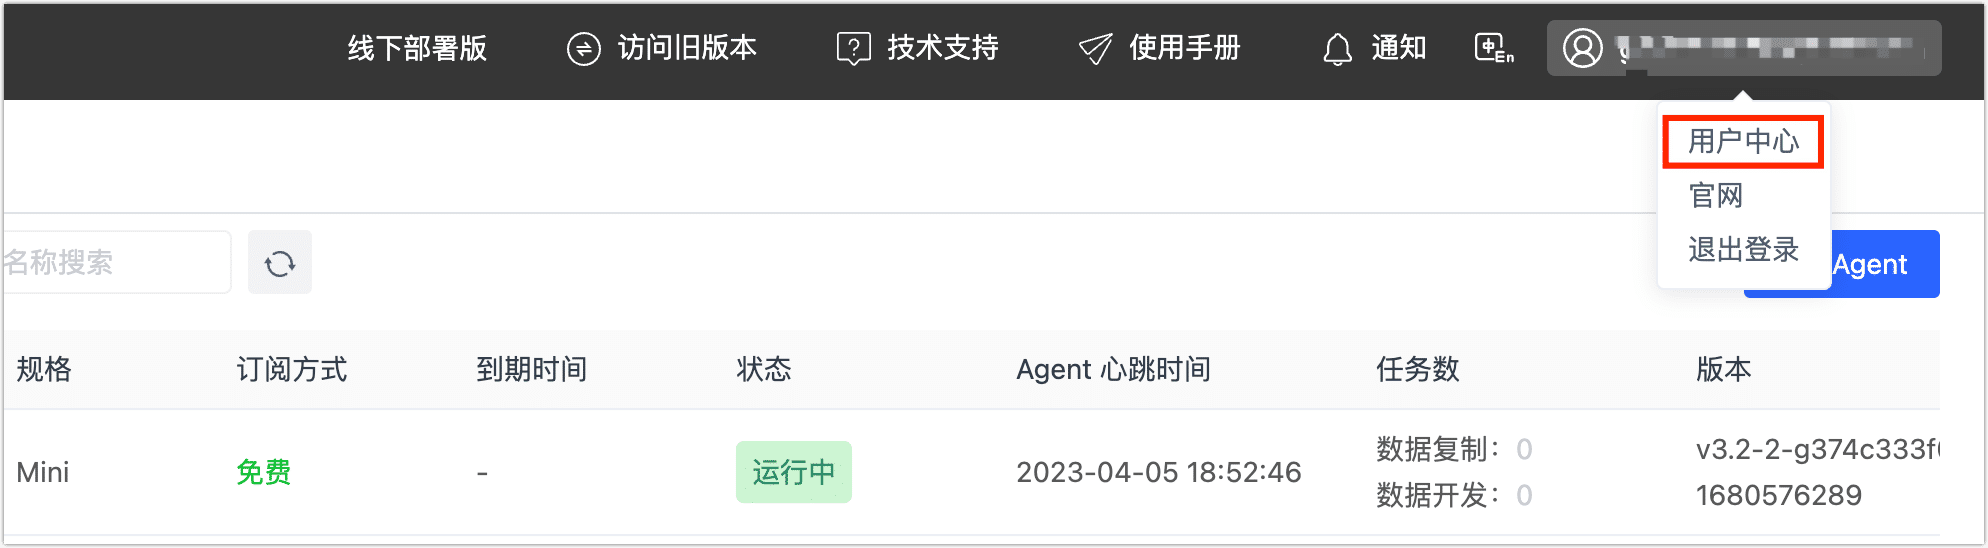
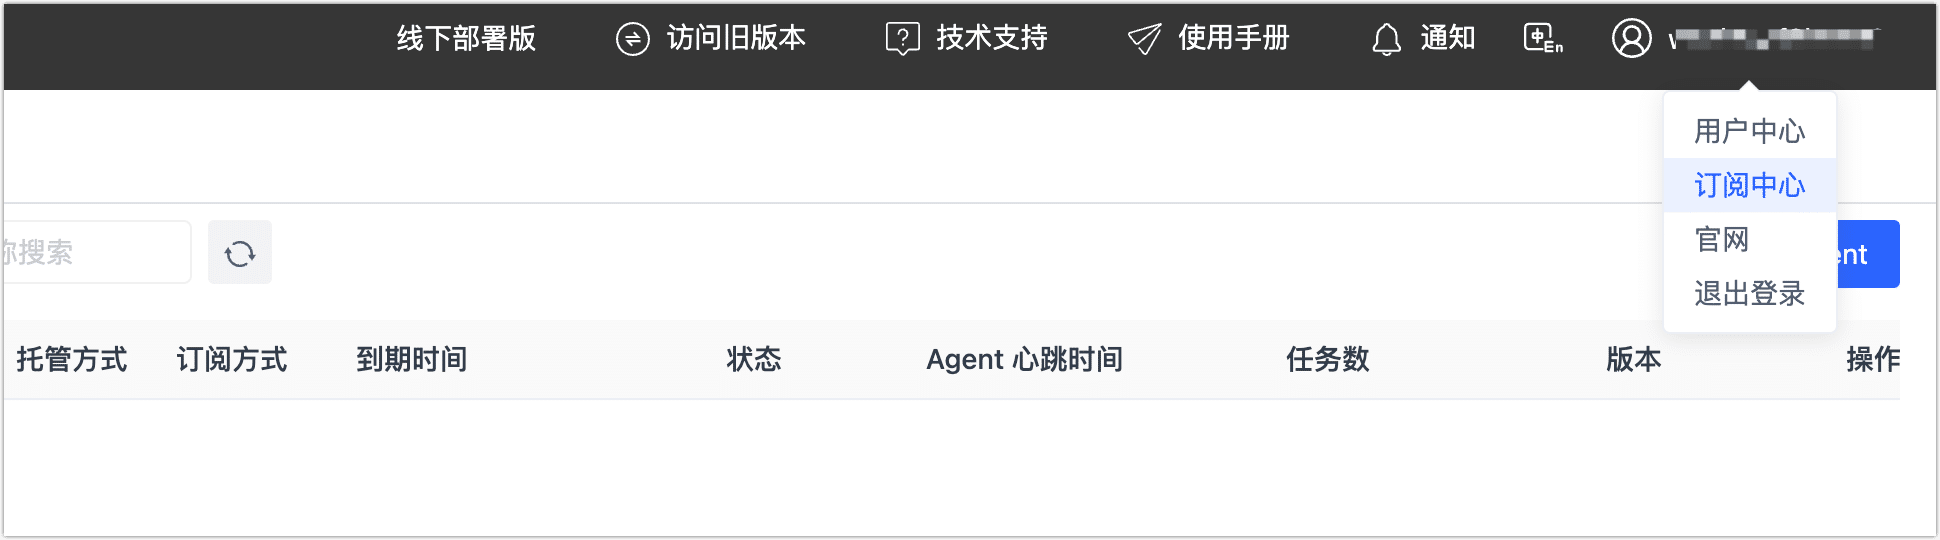
update subscription flow

diff --git a/docs/cloud/billing/purchase.md b/docs/cloud/billing/purchase.md
@@ -8,13 +8,15 @@
 
 2. 在左侧导航栏，单击 **Agent 管理**。
 
-   当前我们已经创建了一个免费的 Agent 实例，现在我们需要订阅更多的 Agent 实例以满足业务对性能需求。
+   当前我们已经创建了一个免费的 Agent 实例（半托管模式），现在我们需要订阅更多的 Agent 实例以满足业务对性能需求。
 
    ![Agent 示例](../images/agent_free.png)
 
 3. 单击页面右侧的**创建 Agent**。
 
-4. 在弹出的对话框中，选择托管模式并**单击下一步**。
+3. 在弹出的对话框中，选择**数据集成模式**并单击**下一步**。
+
+4. 在弹出的对话框中，选择托管模式并单击**下一步**。
 
    * **全托管模式（推荐）**：由 Tapdata Cloud 提供 Agent 运行所需的计算/存储资源并自动部署，同时提供统一的运行维护和资源监控以提升运行可靠性，可实现一键交付使用，免去部署和运维精力，专注业务本身。
    * **半托管模式**：由您提供设备来部署和运维 Agent，为其运行提供计算/存储资源，可充分利用现有硬件资源，获得更低的价格的同时，进一步提升安全性。
@@ -25,17 +27,16 @@
 
    :::
 
-5. 本文以**全托管模式**为例演示购买流程，首先在**选择实例规格**页签中，选择 Agent 规格、计费方式等信息。
+5. 本文以**全托管模式**为例演示购买流程，首先选择计费方式、Agent 规格等信息。
 
    ![选择 Agent 规格](../images/select_agent_spec.png)
 
-   * **产品规格**：基于评估所需的任务数和性能需求，选择产品规格，可免费创建一个 **SMALL** 规格的实例，关于产品定价及规格的详细说明，见[计费概述](billing-overview.md)。
-   * **云服务商**：选择为**全托管模式**时需设置，目前支持**青云**。
-   * **地区**：选择为**全托管模式**时需设置，目前支持**广东 2**。
    * **订阅方式**：选择需要的订阅方式，为避免实例到期影响任务的执行，推荐选择连续包月（**95 折**优惠）或连续包年（**9 折**优惠）。
    * **选择币种**：当前支持人民币或美元。
-
-6. 单击页面右下角的**下一步**，确认待购买的规格、计费方式，确认接收账单的邮箱，然后单击**在线支付**。
+   * **地区**：选择为**全托管模式**时需设置，目前支持**北京**和**香港**。
+   * **产品规格**：基于评估所需的任务数和性能需求，选择产品规格，您可免费创建一个 **SMALL** 规格（半托管模式）的实例，关于产品定价及规格的详细说明，见[计费概述](billing-overview.md)。
+   
+7. 单击页面右下角的**下一步**，确认待购买的规格、计费方式，确认接收账单的邮箱，然后单击**在线支付**。
 
    :::tip
 

diff --git a/docs/cloud/billing/renew-subscribe.md b/docs/cloud/billing/renew-subscribe.md
@@ -8,19 +8,15 @@
 
 1. 登录 [Tapdata Cloud 平台](https://cloud.tapdata.net/console/v3/)。
 
-2. 在页面右上角，单击您的用户名，选择**用户中心**。
+2. 在页面右上角，单击您的用户名，选择**订阅中心**。
 
    ![用户中心](../images/user_center.png)
 
-3. 下翻至页面底部的**服务订阅信息**区域，可查看到您当前的订阅信息。
-
-   :::tip
-
-   如您是通过阿里云市场订阅的实例，您需要在本页面的**授权码信息**区域执行续订操作。
-
-4. 找到目标实例，单击**续订**，如您是连续包年/包月，无需执行本操作。
+3. 查看当前的订阅信息，找到目标实例，单击**续订**，如您是连续包年/包月，无需执行本操作。
 
    ![续订实例](../images/renew_subscribe.png)
 
-5. 在跳转到的支付页面，根据页面指引完成支付流程。
+4. 在弹出的对话框中，确认续订时长并单击**确定**。
+
+5. 跳转到的支付页面，根据页面指引完成支付流程。
 

diff --git a/docs/cloud/quick-start/install-agent/README.md b/docs/cloud/quick-start/install-agent/README.md
@@ -2,7 +2,7 @@
 
 Tapdata Agent 是数据同步、数据异构、数据开发场景中的关键程序。由于数据流转通常对时效性有较高的要求，因此，推荐将 Tapdata Agent 部署在数据库所属的本地网络中，从而极大降低数据延迟。
 
-Tapdata Cloud 按照订阅 Agent 实例的**规格**和**数量**收费，您可以免费创建 1 个 SMALL 规格的 Agent 实例，此外，您还可以[购买更多的 Agent 实例](../../billing/billing-overview.md)，来满足业务需求。
+Tapdata Cloud 按照订阅 Agent 实例的**规格**和**数量**收费，您可以免费创建 1 个 SMALL 规格的 Agent 实例（半托管模式），此外，您还可以[购买更多的 Agent 实例](../../billing/billing-overview.md)，来满足业务需求。
 
 :::tip
 

diff --git a/docs/cloud/billing/refund.md b/docs/cloud/billing/refund.md
@@ -22,7 +22,7 @@
 
 5. 等待 Agent 停止后，单击**退订**。
 
-6. 在弹出的对话框中，确认退款金额并选择退款原因，单击退订。
+6. 在弹出的对话框中，确认退款金额并选择退款原因，单击**退订**。
 
    :::tip
 
@@ -39,7 +39,7 @@
 
 :::tip
 
-您可以单击页面右上角的用户名，选择**用户中心**，下翻至页面底部查看订阅周期的起止时间。
+您可以单击页面右上角的用户名，选择**订阅中心**来查看订阅周期的起止时间。
 
 :::
 

diff --git a/docs/cloud/what-is-tapdata-cloud.md b/docs/cloud/what-is-tapdata-cloud.md
@@ -32,7 +32,7 @@ Tapdata Cloud 是由 Tapdata 提供的集数据复制、数据开发为一体的
 
 ## 产品定价
 
-Tapdata Cloud 按照订阅 Agent 实例的**规格**和**数量**收费，您可以免费创建 1 个 SMALL 规格的 Agent 实例。
+Tapdata Cloud 按照订阅 Agent 实例的**规格**和**数量**收费，您可以免费创建 1 个 SMALL 规格的 Agent 实例（半托管模式）。
 
 更多介绍，见[产品计费](billing/billing-overview.md)。
 
